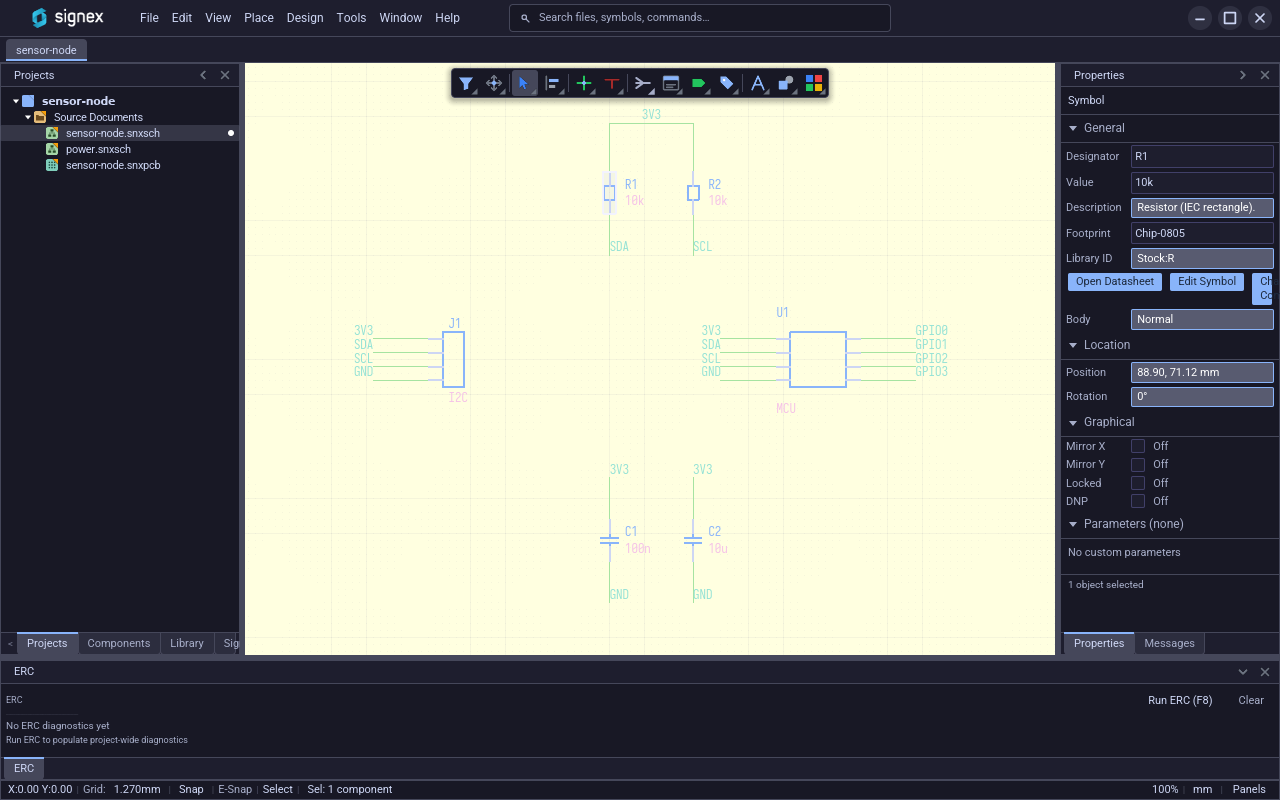
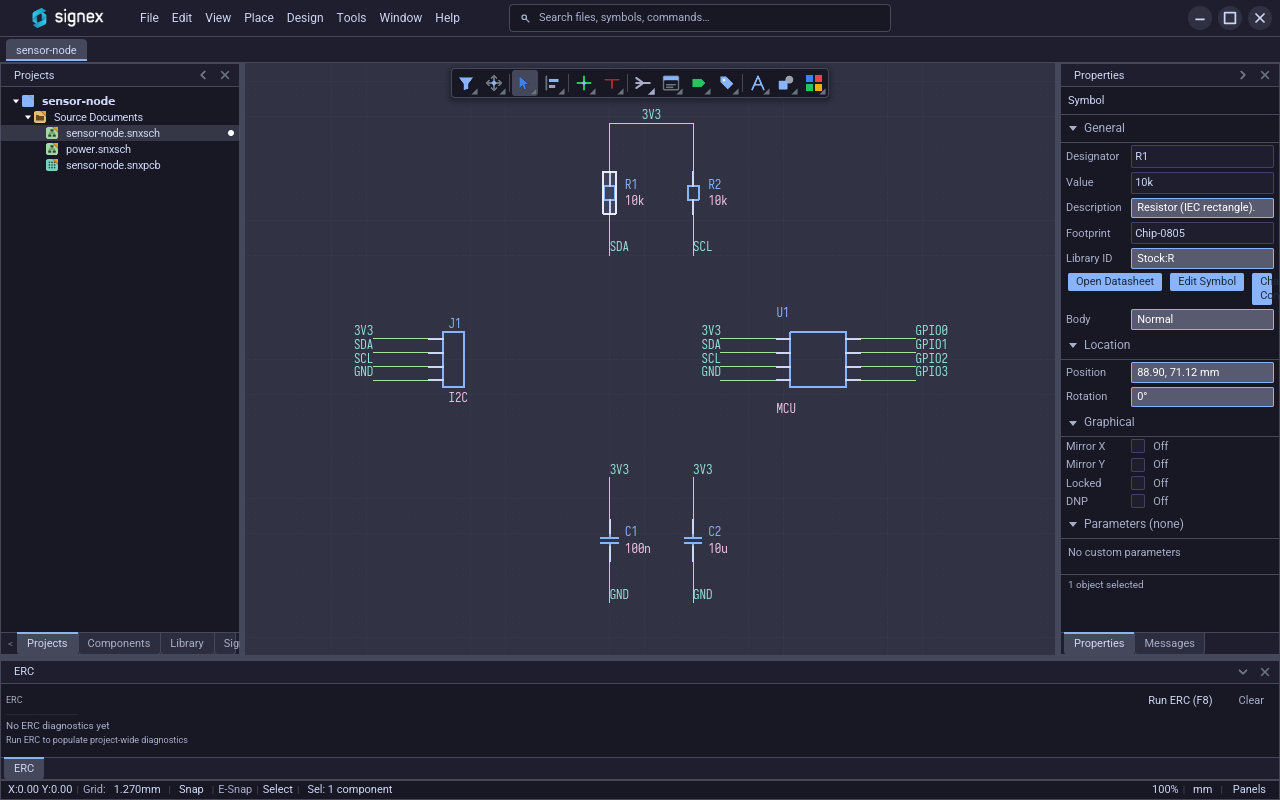
fix(app): repaint the schematic paper and grid on a theme change (#1724)

diff --git a/crates/signex-app/tests/guide_screenshots.rs b/crates/signex-app/tests/guide_screenshots.rs
@@ -32,9 +32,9 @@ use iced_wgpu::wgpu;
 use signex_app::app::{
     ErcMsg, FileMsg, LoadedProject, Message, PreferencesMsg, Signex, TabInfo, TabKind,
 };
+use signex_app::canvas::{BoxDirection, CanvasEvent};
 use signex_app::library::LibraryMessage;
 use signex_app::preferences::PrefMsg;
-use signex_app::canvas::{BoxDirection, CanvasEvent};
 use signex_types::project::{ProjectData, SheetEntry};
 use signex_types::schematic::{
     Graphic, HAlign, Label, LabelType, LibGraphic, LibPin, LibSymbol, Pin, PinDirection,
@@ -284,7 +284,12 @@ fn placed_parts() -> SchematicSheet {
 type Part = (&'static str, (f64, f64), &'static str, &'static str);
 
 const PARTS: &[Part] = &[
-    ("STOCK-Conn_1x04", (60.96, 101.6), "I2C", "Header-1x04-2.54mm"),
+    (
+        "STOCK-Conn_1x04",
+        (60.96, 101.6),
+        "I2C",
+        "Header-1x04-2.54mm",
+    ),
     ("STOCK-R", (88.9, 71.12), "10k", "Chip-0805"),
     ("STOCK-R", (104.14, 71.12), "10k", "Chip-0805"),
     ("STOCK-IC_Generic", (127.0, 101.6), "MCU", "SOIC-8"),
@@ -294,7 +299,11 @@ const PARTS: &[Part] = &[
 
 /// Where a symbol's designator and value sit, as `(dx, dy)` from its origin:
 /// beside the body for the two-pin parts, above and below it otherwise.
-fn field_offsets(lib_id: &str, sheet: &SchematicSheet, reference: &str) -> ((f64, f64), (f64, f64)) {
+fn field_offsets(
+    lib_id: &str,
+    sheet: &SchematicSheet,
+    reference: &str,
+) -> ((f64, f64), (f64, f64)) {
     let _ = (lib_id, sheet);
     match reference.chars().next() {
         Some('R' | 'C') => ((2.8, -1.4), (2.8, 1.6)),
@@ -351,7 +360,10 @@ fn readme_sheet() -> SchematicSheet {
         let lib = sheet.lib_symbols.get(&sym.lib_id).expect("lib");
         for p in &lib.pins {
             let tip = xform.apply(p.pin.position);
-            tips.insert((sym.reference.clone(), p.pin.number.clone()), (tip.x, tip.y));
+            tips.insert(
+                (sym.reference.clone(), p.pin.number.clone()),
+                (tip.x, tip.y),
+            );
         }
     }
     let tip = |reference: &str, pin: &str| tips[&(reference.to_string(), pin.to_string())];
@@ -377,7 +389,12 @@ fn readme_sheet() -> SchematicSheet {
         wire(t, (t.0 - 10.16, t.1));
         labels.push((net, (t.0 - 10.16, t.1), HAlign::Right));
     }
-    for (pin, net) in [("8", "GPIO0"), ("7", "GPIO1"), ("6", "GPIO2"), ("5", "GPIO3")] {
+    for (pin, net) in [
+        ("8", "GPIO0"),
+        ("7", "GPIO1"),
+        ("6", "GPIO2"),
+        ("5", "GPIO3"),
+    ] {
         let t = tip("U1", pin);
         wire(t, (t.0 + 10.16, t.1));
         labels.push((net, (t.0 + 10.16, t.1), HAlign::Left));

diff --git a/crates/signex-app/src/app/handlers/preferences/mod.rs b/crates/signex-app/src/app/handlers/preferences/mod.rs
@@ -499,6 +499,7 @@ impl Signex {
                 // derives them from `preferences_draft_theme` every frame,
                 // so setting the draft above IS the preview; only the
                 // content cache still has to be dropped to repaint.
+                self.interaction_state.active_canvas_mut().clear_bg_cache();
                 self.interaction_state
                     .active_canvas_mut()
                     .clear_content_cache();

diff --git a/crates/signex-app/src/app/runtime/mod.rs b/crates/signex-app/src/app/runtime/mod.rs
@@ -447,6 +447,9 @@ impl Signex {
             canvas.clear_content_cache();
         }
         for canvas in self.interaction_state.all_schematic_canvases_mut() {
+            // The paper and grid live in the background layer, so a new
+            // theme repaints them only if that cache is dropped too.
+            canvas.clear_bg_cache();
             canvas.clear_content_cache();
         }
     }

diff --git a/changelog.d/1745.changed.md b/changelog.d/1745.changed.md
@@ -1,1 +1,2 @@
 - **README screenshots retaken (#1724)** — hero, editor and theme images now come from the current renderer with native `.snxsch` / `.snxprj` names, and the misspelled theme filenames are fixed.
+- **Theme switch repaints the sheet (#1724)** — picking a theme in Preferences now repaints the schematic paper and grid immediately instead of keeping the previous theme's paper colour until the next pan or zoom.
